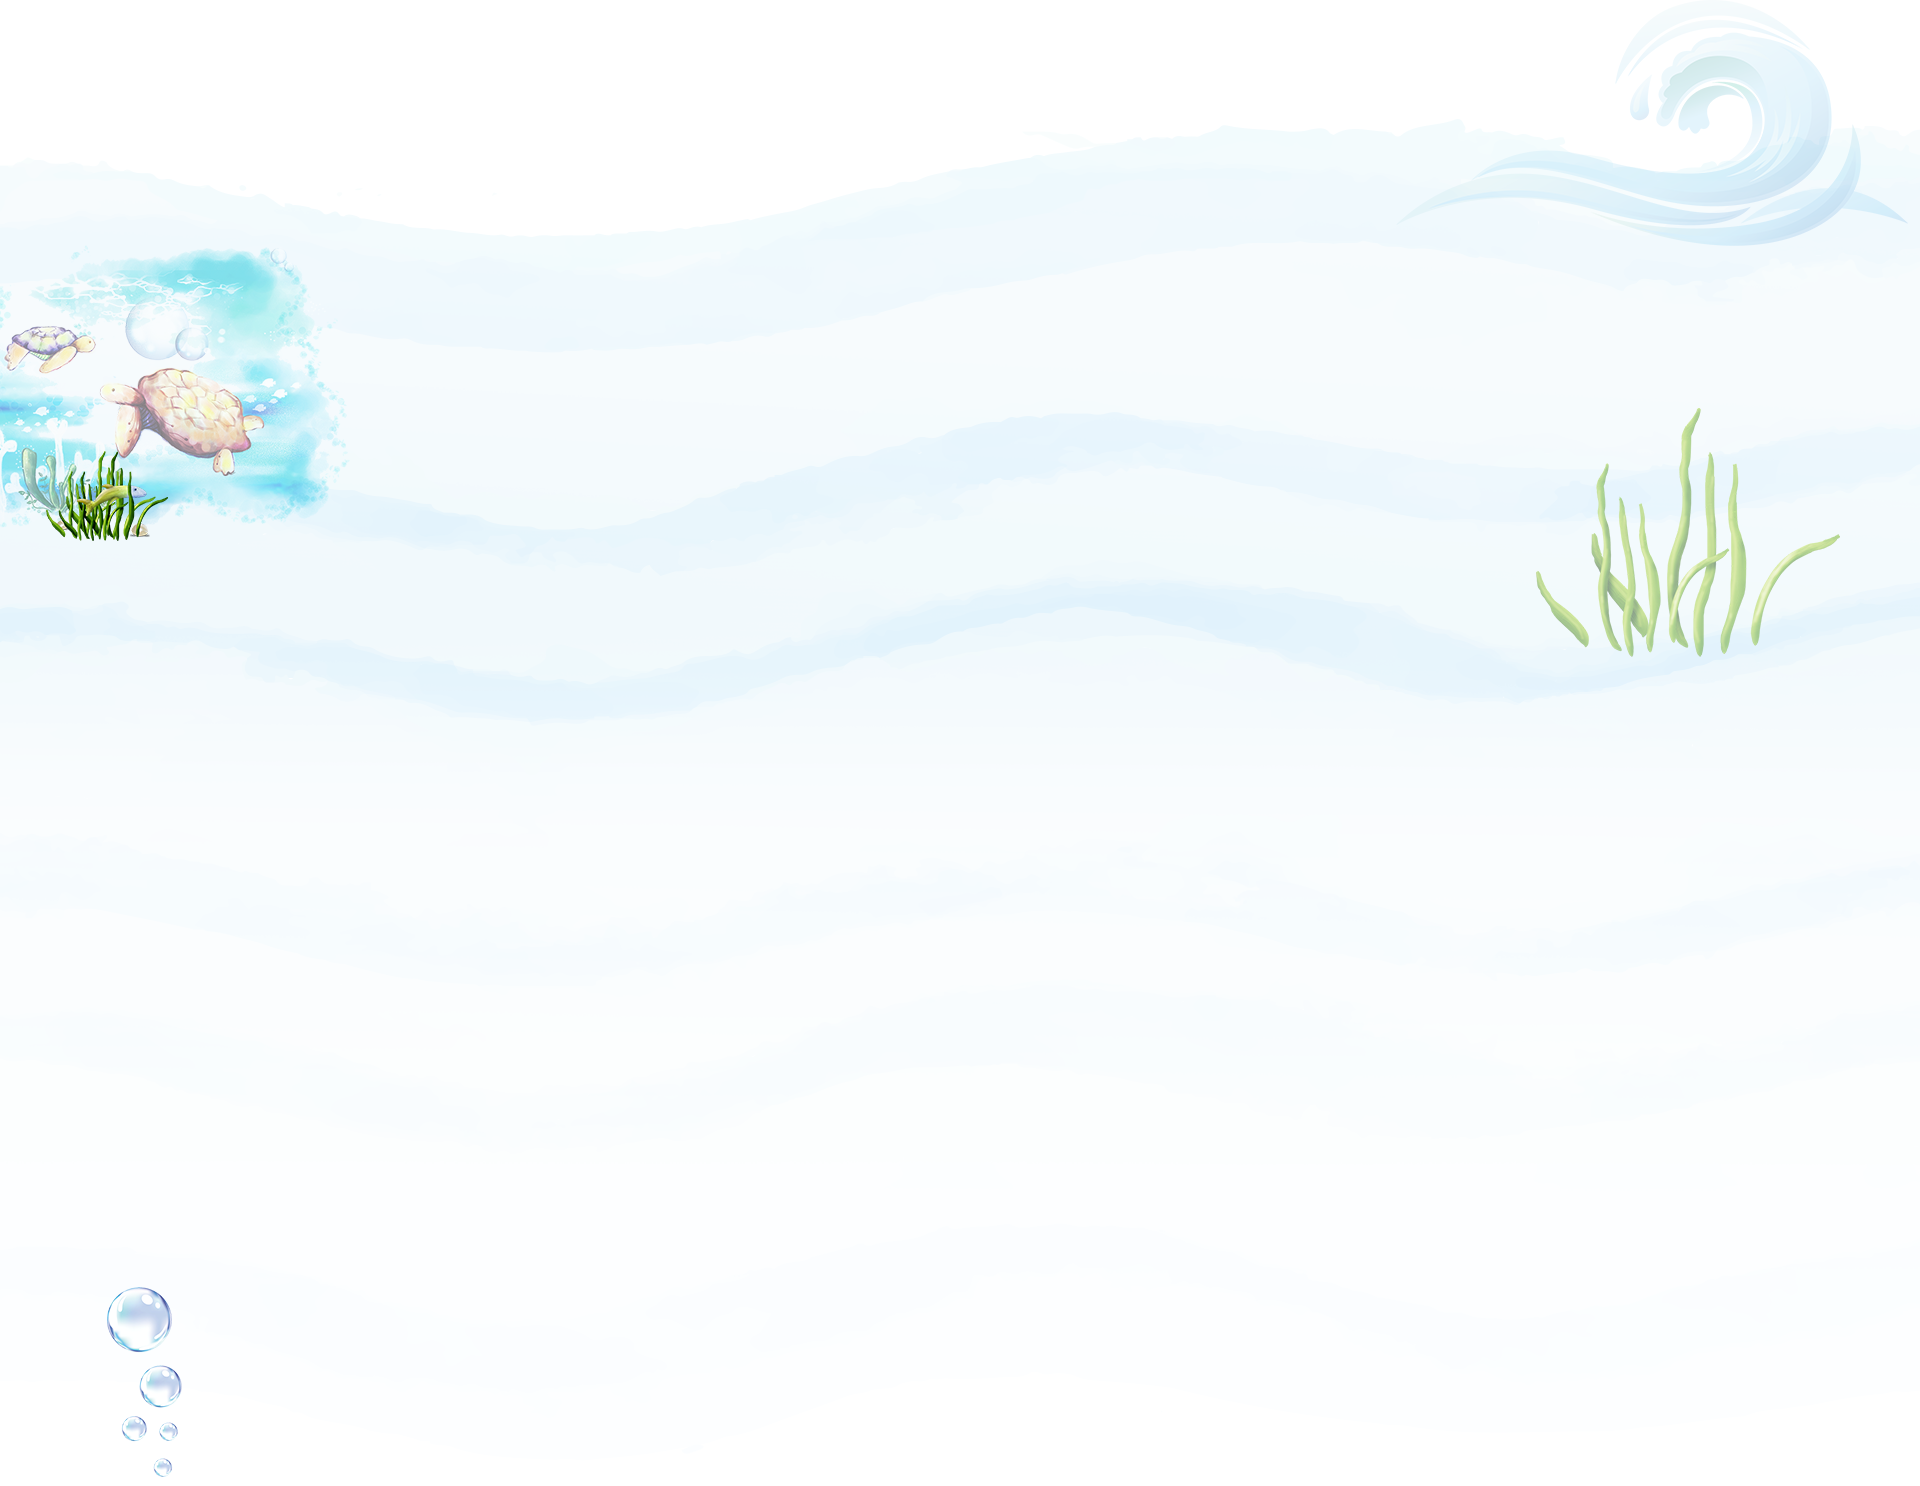
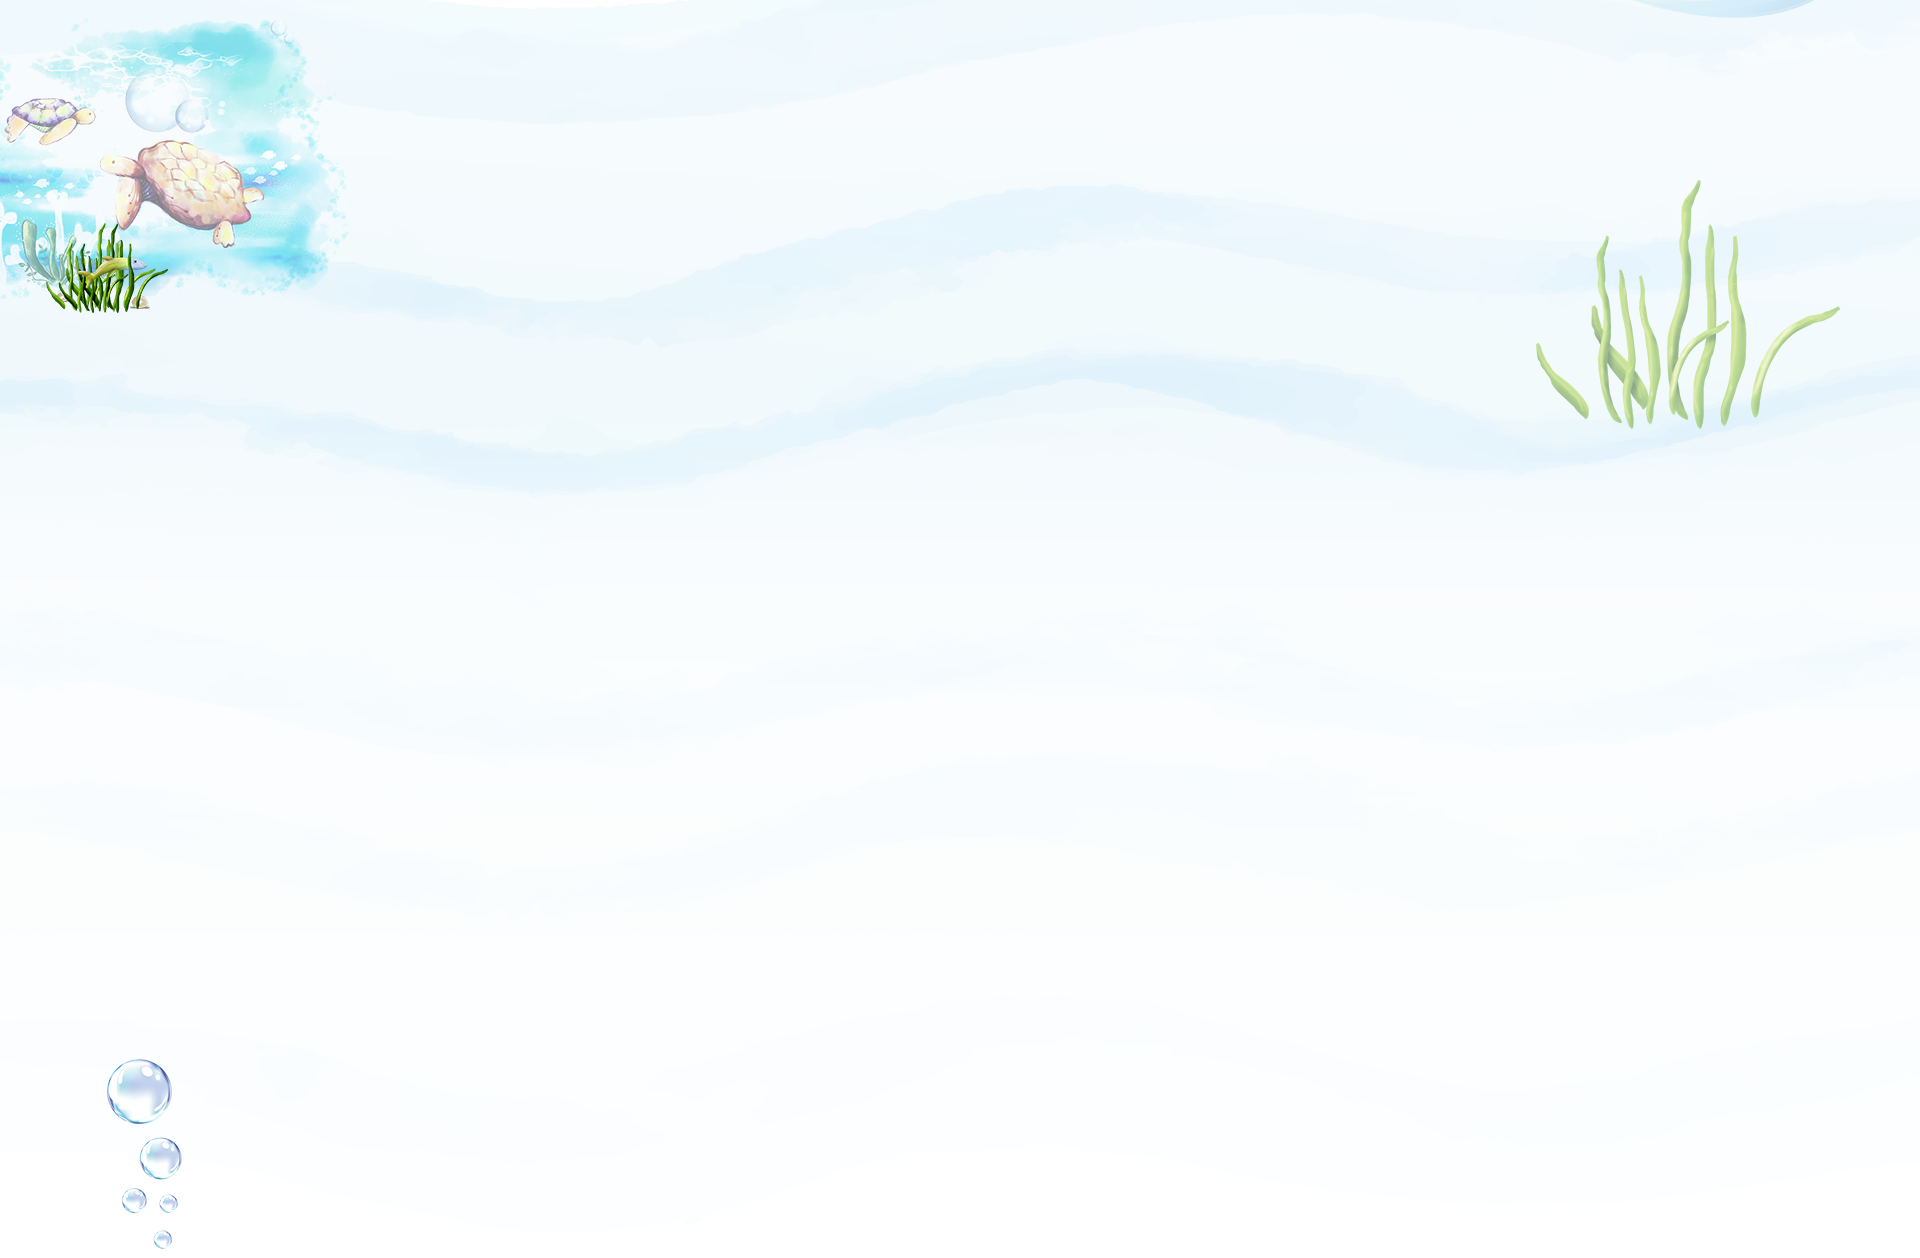
Update page about

diff --git a/src/components/about/index.sass b/src/components/about/index.sass
@@ -134,9 +134,7 @@
 		text-align: center
 		border-radius: 20px
 		border: 5px solid #d4ecba
-		height: 325px
 		@media screen and ( max-width: 1023px)
-			height: auto
 			margin-bottom: 30px
 		.card-img
 			img
@@ -149,9 +147,16 @@
 				color: #333333
 				font-weight: 500
 		.caption
-			padding-top: 15px
+			margin-top: 15px
 			font-size: 16px
 			color: #666666
+			-webkit-box-orient: vertical
+			-webkit-line-clamp: 8
+			-o-text-overflow: ellipsis
+			display: -webkit-box
+			overflow: hidden
+			text-overflow: ellipsis
+			height: 145px
 
 // section-3
 .about-3
@@ -246,18 +251,32 @@
 			display: flex
 			justify-content: center
 			align-items: center
-			@media screen and ( max-width: 1023px)
+			@media screen and ( max-width: 1024px)
 				flex-wrap: wrap
 			li
 				padding-right: 140px
+				text-align: center
 				&:last-child
 					padding-right: 0
-				@media screen and ( max-width: 1023px)
+				@media screen and ( max-width: 1279px)
+					padding-right: 40px
+				@media screen and ( max-width: 1024px)
 					flex: 0 0 45%
 					max-width: 45%
 					padding-right: 0
 					text-align: center
 					padding-bottom: 30px
+				.text-logo 
+					font-size: 16px
+					color: #ffffff
+					margin-top: 20px
+					-webkit-box-orient: vertical
+					-webkit-line-clamp: 2
+					-o-text-overflow: ellipsis
+					display: -webkit-box
+					overflow: hidden
+					text-overflow: ellipsis
+					height: 70px
 
 // section-5
 .about-5
@@ -329,6 +348,8 @@
 				margin-top: 60px
 				span
 					padding-left: 10px
+				@media screen and ( max-width: 1199px)
+					margin-top: 30px
 				@media screen and ( max-width: 1024px)
 					margin-top: 30px
 		&:hover

diff --git a/src/components/_core/animation.sass b/src/components/_core/animation.sass
@@ -13,5 +13,7 @@
 		transform: scale(1)
 		transition: .3s all ease-in-out
 
-// .background-img
-// 	background-position: 50% 80% !important
+.background-img
+	background-position: left !important
+	@media screen and ( max-width: 1440px)
+		background-position: center !important
